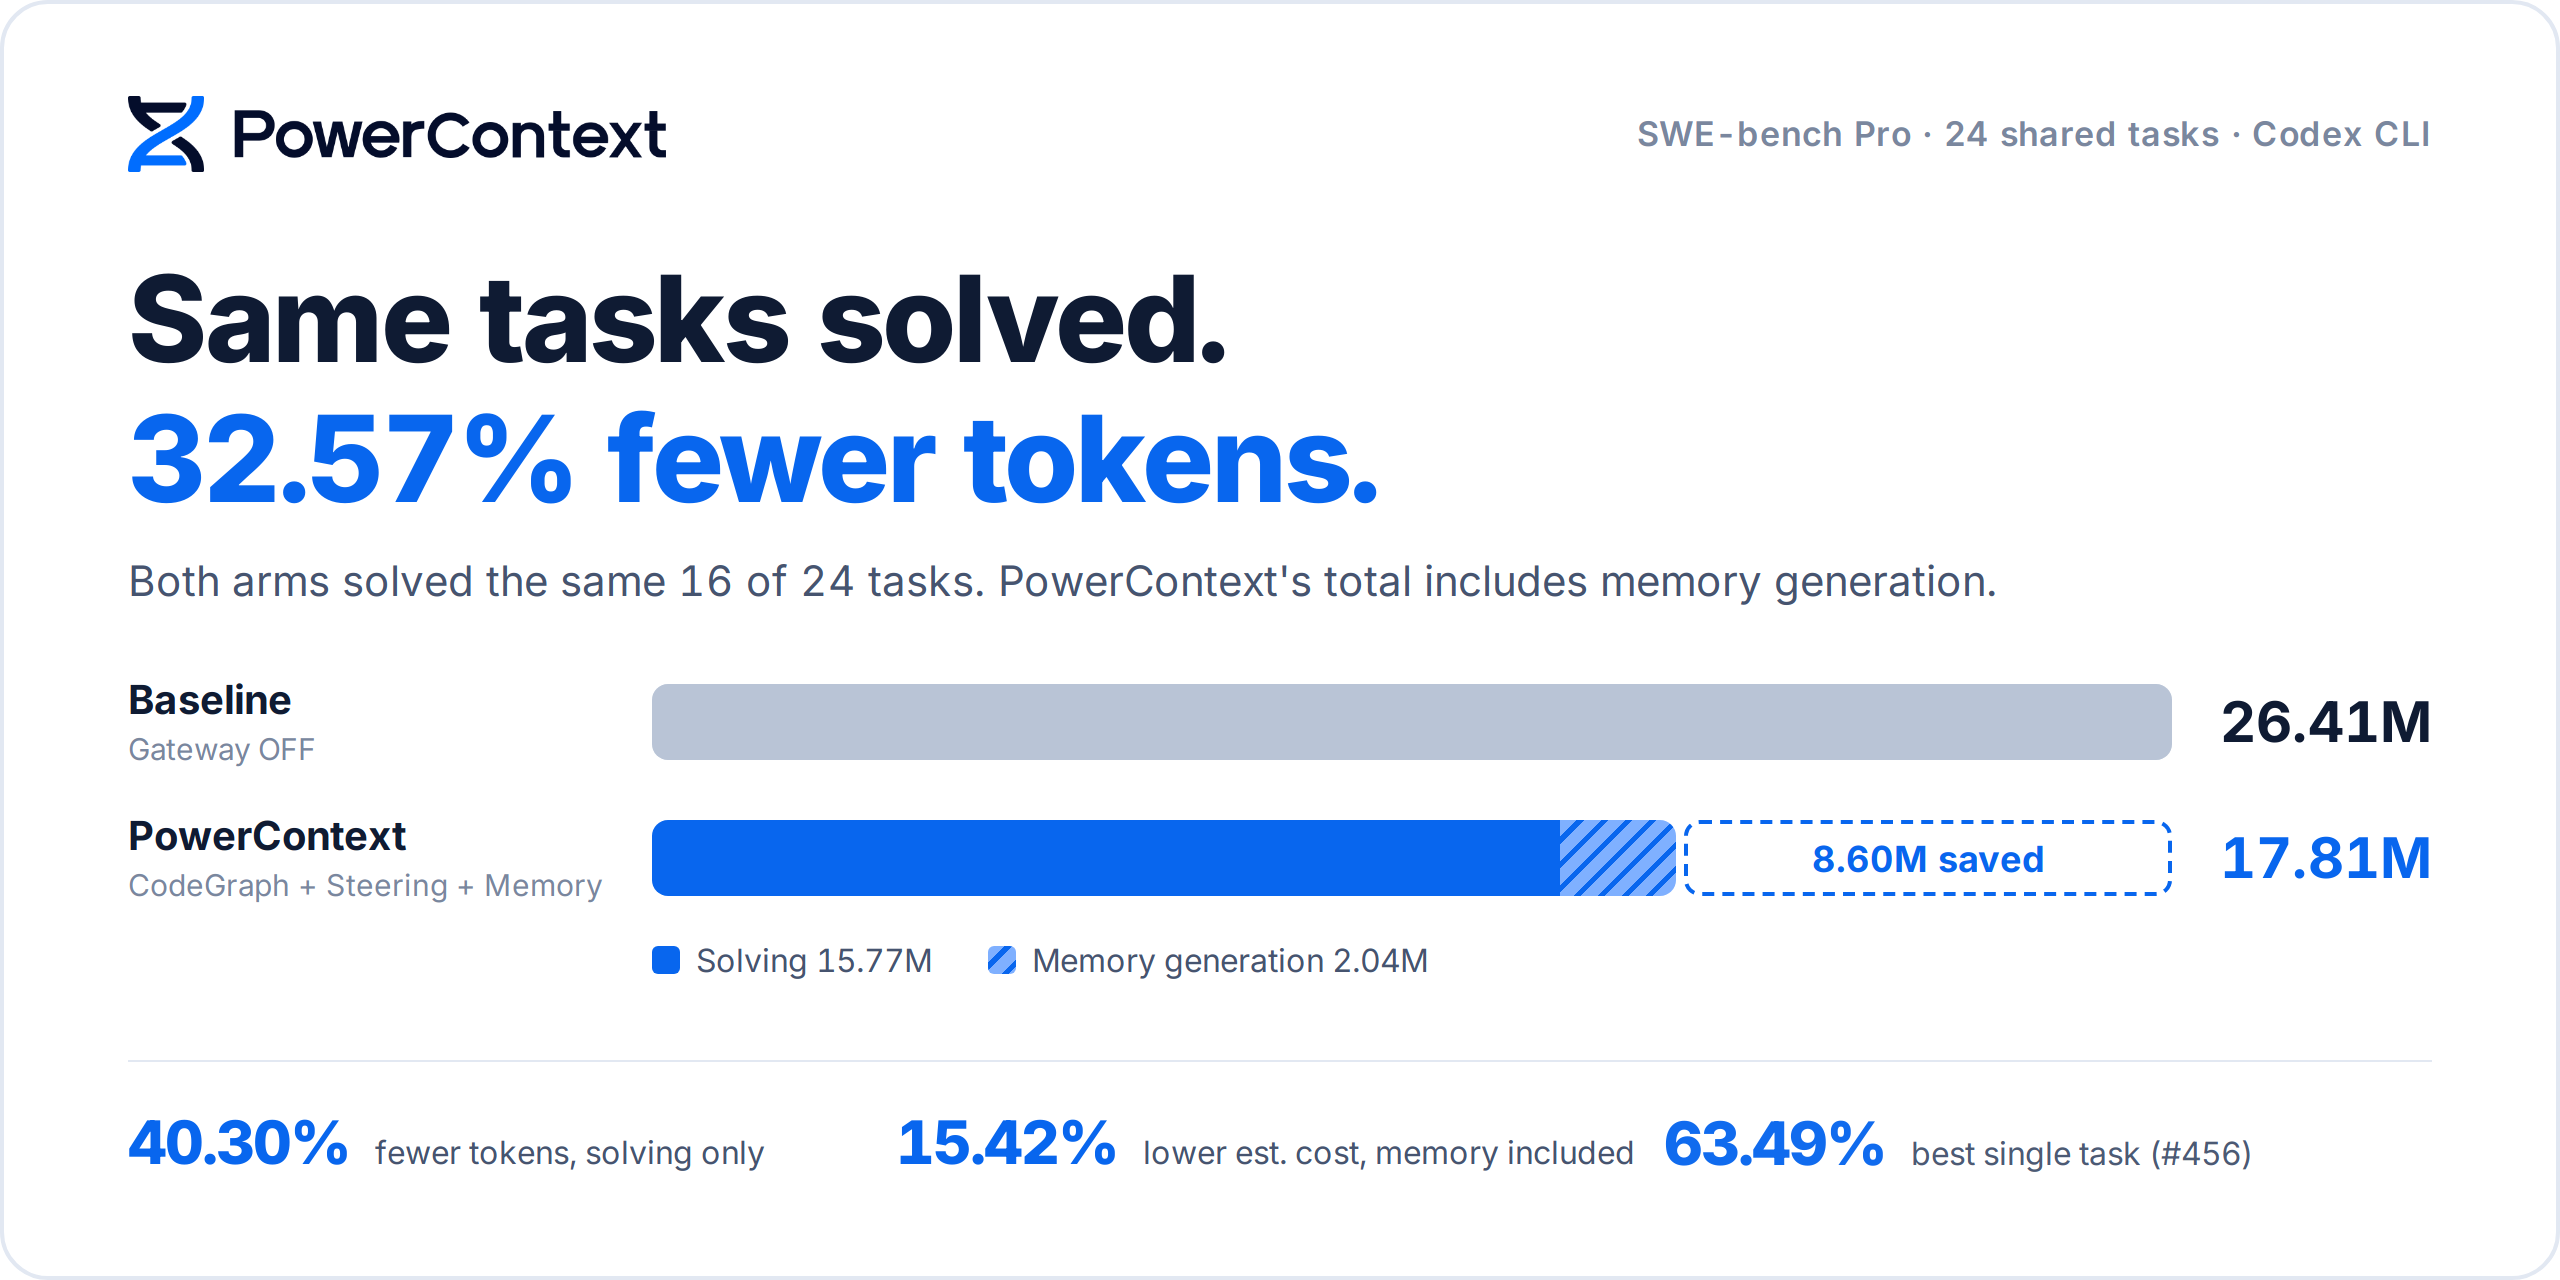
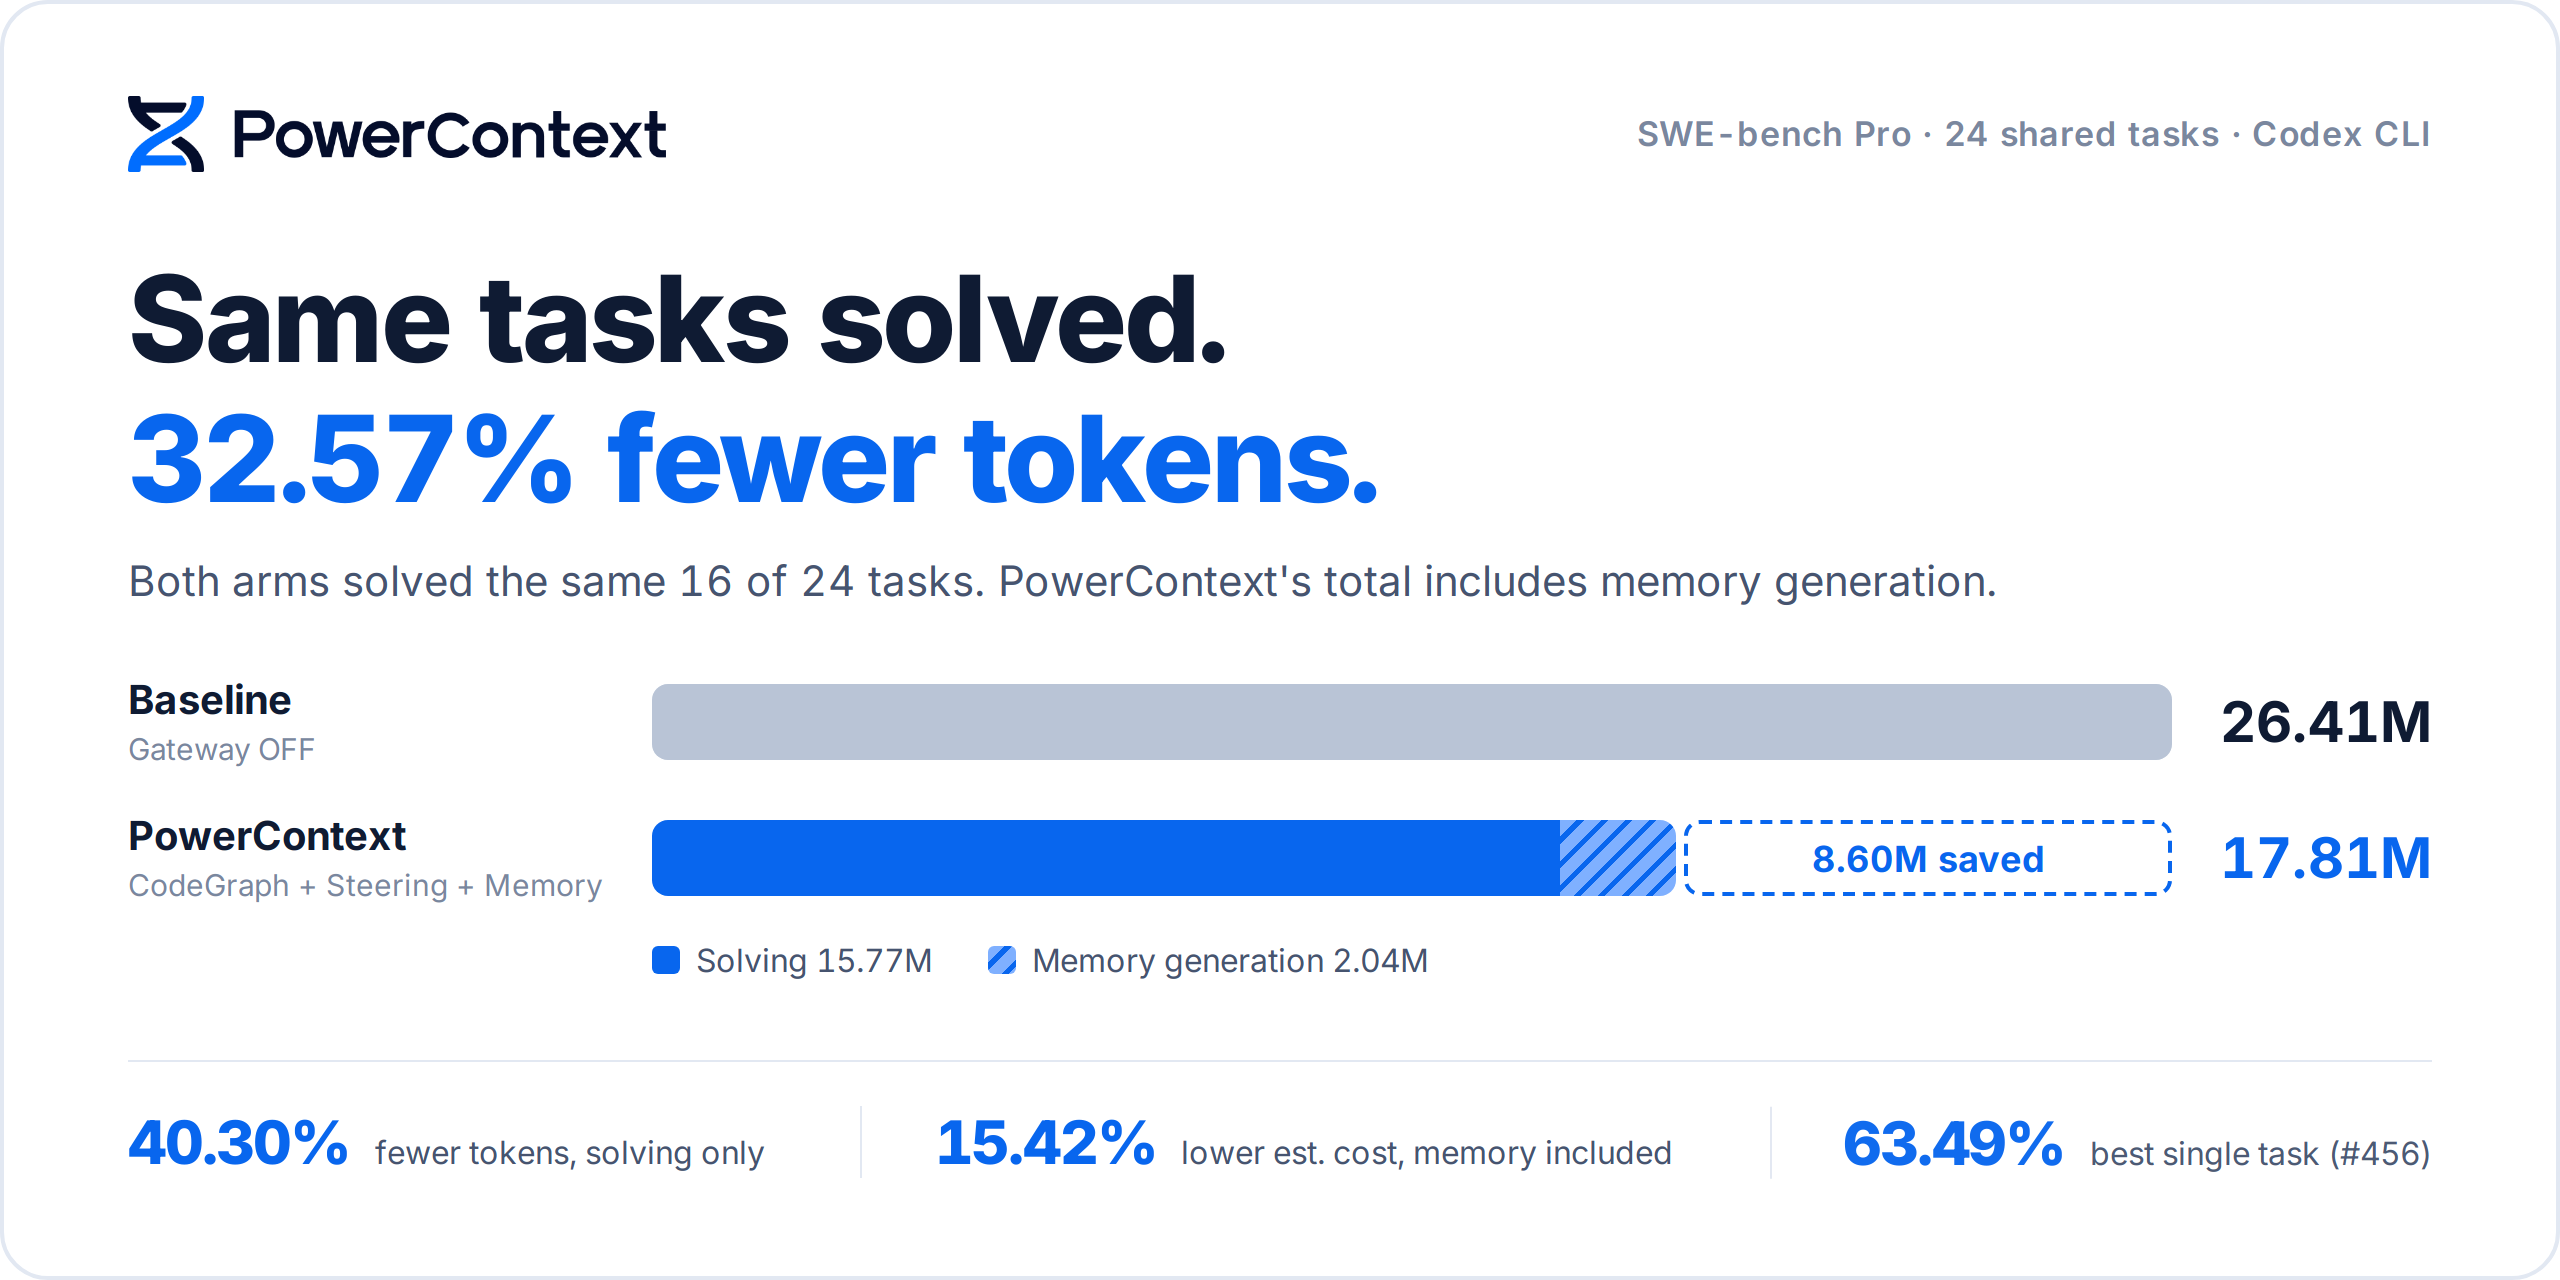
docs: label the control as the gateway arm and space out hero stats
Gateway OFF still routes through the gateway with features disabled, so the
Chinese label now reads 网关对照组. Bottom stats are spaced by content with
dividers, and the renderer asserts they stay on one line with clear gaps.

Changed region(s): [[0.3438, 0.875, 0.9375, 0.9375]]

diff --git a/docs/assets/render_hero.py b/docs/assets/render_hero.py
@@ -75,7 +75,7 @@ def copy(lang, m):
             "line1": "同样解出题目，",
             "line2": f"Token 少用 {m['total_cut']:.2f}%",
             "sub": f"两组解出的是 {m['tasks']} 题中相同的 {m['solved_pc']} 题。PowerContext 一侧已计入记忆生成的开销。",
-            "off": "基线", "off_note": "网关关闭（Gateway OFF）",
+            "off": "基线", "off_note": "网关对照组（Gateway OFF）",
             "pc": "PowerContext", "pc_note": "代码检索 + 工作指导 + 项目记忆",
             "solving": f"解题 {millions(m['solving'])}", "memory": f"记忆生成 {millions(m['memory'])}",
             "saved": f"节省 {saved}",
@@ -147,8 +147,9 @@ body { font-family: Inter, "Noto Sans SC", sans-serif; color: var(--ink); font-v
 .value { position: absolute; right: 0; top: 6px; font-size: 28px; font-weight: 700; }
 .legend { position: absolute; left: 326px; top: 470px; display: flex; gap: 28px; font-size: 16px; color: var(--ink2); }
 .legend i { display: inline-block; width: 14px; height: 14px; border-radius: 3px; margin-right: 8px; vertical-align: -1px; }
-.stats { position: absolute; left: 64px; right: 64px; top: 530px; display: grid; grid-template-columns: repeat(3, 1fr);
+.stats { position: absolute; left: 64px; right: 64px; top: 530px; display: flex; justify-content: space-between;
          border-top: 1px solid var(--border); padding-top: 22px; }
+.stat + .stat { border-left: 1px solid var(--border); padding-left: 36px; }
 .stat { display: flex; align-items: baseline; gap: 12px; }
 .stat b { font-size: 30px; font-weight: 800; letter-spacing: -.02em; color: var(--accent); }
 .stat span { font-size: 16px; color: var(--ink2); }
@@ -227,6 +228,11 @@ def load(tab, html):
     # Labels must not collide with the bars or run off the card.
     assert tab.evaluate("""() => [...document.querySelectorAll('.label, .value, .stat, .sub, .head, .top')]
         .every(e => { const r = e.getBoundingClientRect(); return r.left >= 0 && r.right <= innerWidth - 40; })""")
+    # Bottom stats stay on one line with clear separation between them.
+    assert tab.evaluate("""() => { const s = [...document.querySelectorAll('.stat')];
+        const box = (e, q) => e.querySelector(q).getBoundingClientRect();
+        return s.every(e => box(e, 'span').height < 30)
+            && s.slice(1).every((e, i) => box(e, 'b').left - box(s[i], 'span').right >= 64); }""")
 
 
 def gif_palette(frame, theme):
